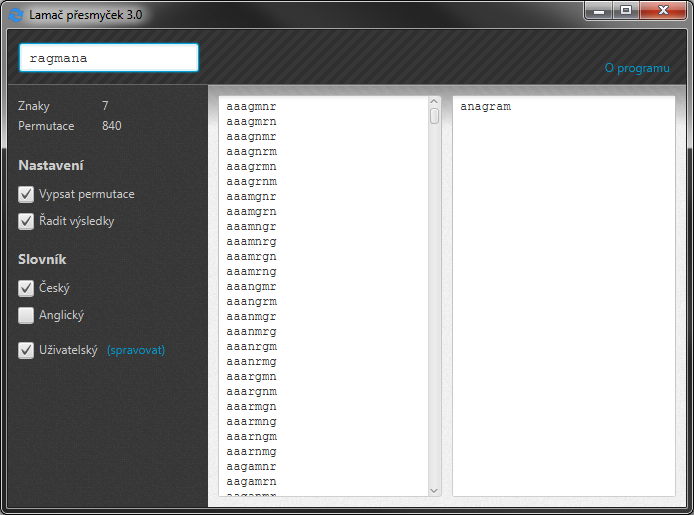
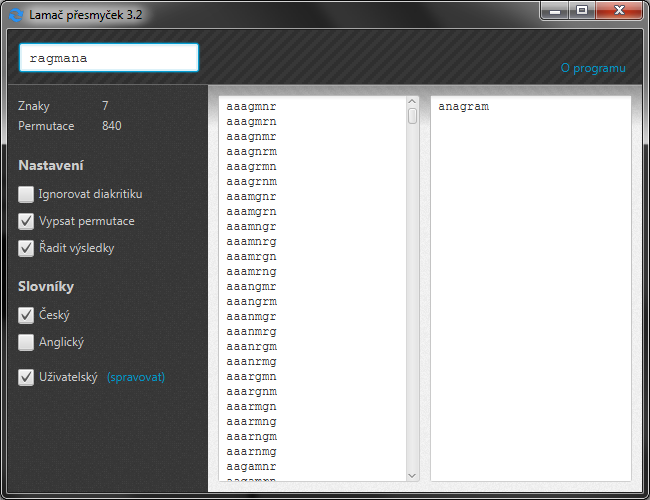
Preparations for the next version

Changed region(s): [[0.0, 0.0, 1.0, 1.0], [0.0, 0.3, 0.2462, 0.99], [0.1538, 0.21, 0.1846, 0.27]]

diff --git a/src/cz/hartrik/anagram/about.html b/src/cz/hartrik/anagram/about.html
@@ -10,11 +10,11 @@
                 font-size: 12px;
                 line-height: 20px;
             }
-            
+
             .history-table {
                 width: 100%;
             }
-            
+
             .history-table, .history-table th, .history-table td  {
                 border: 1px solid #C0C0C0;
                 padding: 5px 15px 5px 15px;
@@ -47,13 +47,13 @@
             permutací.</p>
 
         <h3>Slovníky</h3>
-        
+
         <h4>Vestavěné</h4>
         <ul>
             <li><b>český</b> – 1 070 713 slov</li>
             <li><b>anglický</b> – 632 184 slov (včetně slov s apostrofem)</li>
         </ul>
-        
+
         <h4>Uživatelské</h4>
         <p> Uživatel má možnost přidat vlastní slovníky. <br/>
             Mohou být přidány pouze textové soubory s kódováním UTF-8,
@@ -61,7 +61,7 @@
             Jediná prováděná úprava je oříznutí každého řádku od bílých znaků.
             Na velikosti znaků opět nezáleží.
         </p>
-        
+
         <h3>Zdroje</h3>
         <ul>
             <li>
@@ -70,7 +70,7 @@
                     Dostupné z WWW: http://ucnk.ff.cuni.cz/srovnani10.php </i>
             </li>
         </ul>
-        
+
         <h3>Historie verzí</h3>
         <table class="history-table">
             <thead>
@@ -89,14 +89,15 @@
                 <tr>
                     <td>1.1</td>
                     <td>2013&#8209;01&#8209;28</td>
-                    <td>vyhledávání zrychleno<br>
+                    <td>vyhledávání zrychleno</td>
                 </tr>
                 <tr>
                     <td>1.2</td>
                     <td>2013&#8209;01&#8209;29</td>
                     <td>
-                        &bull; otevřeny zdrojové kódy<br>
-                        &bull; drobné úpravy <br>
+                        &bull; otevřeny zdrojové kódy <br>
+                        &bull; drobné úpravy
+                    </td>
                 </tr>
                 <tr>
                     <td>1.3</td>
@@ -106,13 +107,13 @@
                         &bull; český slovník upraven <br>
                         &bull; již nezáleží na velikosti znaků <br>
                         &bull; informace o aplikaci přesunuty do vlastního okna <br>
-                        &bull; rozsáhlé změny v GUI <br>
+                        &bull; rozsáhlé změny v GUI
+                    </td>
                 </tr>
                 <tr>
                     <td>1.4</td>
                     <td>2013&#8209;02&#8209;06</td>
-                    <td>
-                        &bull; nový způsob vyhledávání pro delší slova <br>
+                    <td> &bull; nový způsob vyhledávání pro delší slova </td>
                 </tr>
                 <tr>
                     <td>1.5</td>
@@ -120,7 +121,8 @@
                     <td>
                         &bull; větší stabilita aplikace <br>
                         &bull; odstranění jednoho progressbaru <br>
-                        &bull; měření rychlosti – najetím na progressbar <br>
+                        &bull; měření rychlosti – najetím na progressbar
+                    </td>
                 </tr>
                 <tr>
                     <td>2.0</td>
@@ -130,7 +132,8 @@
                         &bull; slovníky přesunuty do textových souborů => rychlejší načítání, přehlednost <br>
                         &bull; informace přesunuty do samostatného HTML dokumentu <br>
                         &bull; look and feel změněn na nimbus (pro všechny platformy stejný vzhled) <br>
-                        &bull; značně zrychleno vypisování permutací => odstraněn progressbar <br>
+                        &bull; značně zrychleno vypisování permutací => odstraněn progressbar
+                    </td>
                 </tr>
                 <tr>
                     <td>3.0</td>
@@ -142,14 +145,26 @@
                         &bull; přidán správce slovníků, podpora pro uživatelské slovníky <br>
                         &bull; značně rozšířeny vestavěné slovníky <br>
                         &bull; "líné" načítání vestavěných slovníků (po částech) <br>
-                        &bull; řešení přesmyček má nyní nízkou časovou složitost <br>
+                        &bull; řešení přesmyček má nyní nízkou časovou složitost
+                    </td>
                 </tr>
                 <tr>
                     <td>3.1</td>
                     <td>2015&#8209;02&#8209;04</td>
                     <td>
                         &bull; opraveno načítání slovníků (na os Linux nefunkční) <br>
-                        &bull; drobné úpravy ve vzhledu <br>
+                        &bull; drobné úpravy ve vzhledu
+                    </td>
+                </tr>
+                <tr>
+                    <td>3.2</td>
+                    <td>2015&#8209;08&#8209;19</td>
+                    <td>
+                        &bull; rychlejší načítání slovníků, menší paměťová náročnost <br>
+                        &bull; přidána možnost ignorovat diakritiku <br>
+                        &bull; přidána anglická lokalizace <br>
+                        &bull; vylepšeno řazení (a, á, b...)
+                    </td>
                 </tr>
             </tbody>
         </table>

diff --git a/src/cz/hartrik/anagram/Main.java b/src/cz/hartrik/anagram/Main.java
@@ -16,7 +16,7 @@ import javafx.stage.Stage;
  */
 public class Main extends Application {
 
-    public static final String APP_VERSION = "3.2 /D";
+    public static final String APP_VERSION = "3.2";
 
     static final String FILE_FXML = "MainWindow.fxml";
     static final String FILE_ICON = "icon - refresh.png" ;
